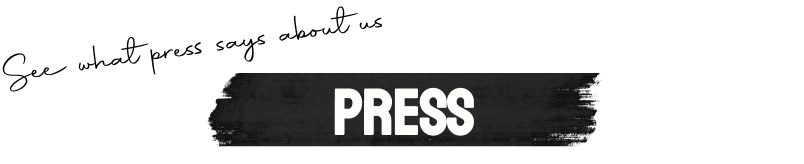
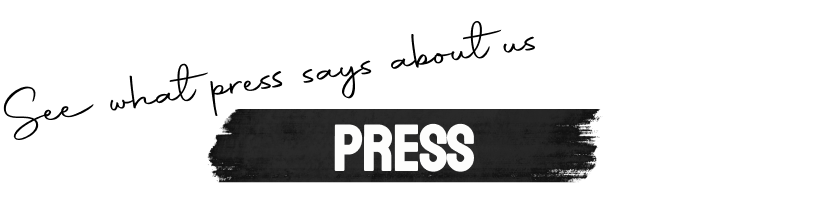
parallax effect

Changed region(s): [[0.0, 0.0305, 0.7463, 0.9146], [0.0933, 0.2744, 0.1244, 0.3049]]

diff --git a/index.html b/index.html
@@ -13,28 +13,36 @@
 <body>
     <nav class="navbar">
         <div class="brand-title">
-            <a href="index.html"><img src="img/logo_white_long.svg" alt="long logo">
+            <a class="size_up" href="index.html"><img src="img/logo_white_long.svg" alt="long logo">
         </div></a>
-        <a href="#" class="toggle-button">
+        <a class="size_up" href="#" class="toggle-button">
             <span class="bar"></span>
             <span class="bar"></span>
             <span class="bar"></span>
         </a>
         <div class="navbar-links">
             <ul>
-                <li><a href="staff.html">ABOUT</a></li>
-                <li><a href="#">PROJECTS</a></li>
-                <li><a href="#">SHOP</a></li>
-                <li><a href="#">TROLLMAP</a></li>
-                <li><a href="#"><img class="search" src="img/search.png" alt="long logo"></a></li>
-                <li><a href="#"><img class="search" src="img/cart.png" alt="long logo"></a></li>
+                <li><a class="size_up" href="staff.html">ABOUT</a></li>
+                <li><a class="size_up" href="#">PROJECTS</a></li>
+                <li><a class="size_up" href="#">SHOP</a></li>
+                <li><a class="size_up" href="#">TROLLMAP</a></li>
+                <li><a class="size_up" href="#"><img class="search" src="img/search.png" alt="long logo"></a></li>
+                <li><a class="size_up" href="#"><img class="search" src="img/cart.png" alt="long logo"></a></li>
             </ul>
         </div>
     </nav>
-    <header>
-        <div id="header_div"></div>
-    </header>
     <main>
+        <div class="center">
+            <div class="down"></div>
+        </div>
+
+        <div id="wrapper">
+            <img id="background" src="img/background.jpg" alt="Background image">
+            <img id="foreground" src="img/foreground.png" alt="Foreground image">
+            <img id="logo" src="img/logo_black_big.svg" alt="Logo">
+
+        </div>
+        </div>
         <section id="art_part">
             <article id="title">
                 <div class="title_text">
@@ -54,7 +62,7 @@
                         imagination have reached millions through in person visits, shared photos, and international
                         media
                         coverage.</p>
-                    <div class="button"><a href="#"><img src="img/button_visit.png"
+                    <div class="size_up" class="button"><a href="#"><img src="img/button_visit.png"
                                 alt="Go to the website about specific artwork"></a></div>
                 </div>
                 <div class="art_image">
@@ -67,7 +75,7 @@
                     <p>Since 2006 Thomas has made and installed more than 3500 birdhouses, in different shapes and
                         colors,
                         all over the world. All of the birdhouses are made from recycled materials and scrap wood.</p>
-                    <div class="button"><a href="#"><img src="img/button_visit.png"
+                    <div class="size_up" class="button"><a href="#"><img src="img/button_visit.png"
                                 alt="Go to the website about specific artwork"></a></div>
                 </div>
                 </div>
@@ -85,7 +93,7 @@
                         could be flipped to make different patterns allowing anyone to easily express themselves on a
                         huge
                         scale in a popular public spot.</p>
-                    <div class="button"><a href="#"><img src="img/button_visit.png"
+                    <div class="size_up" class="button"><a href="#"><img src="img/button_visit.png"
                                 alt="Go to the website about specific artwork"></a></div>
                 </div>
                 </div>
@@ -97,7 +105,7 @@
         <section id="shop">
             <article id="shop_article">
                 <div class="black_title"><img src="img/title_shop.png" alt="Shop title"></div>
-                <div class="see_more">
+                <div class="size_up" class="see_more">
                     <a href="#">
                         <p>See all products -></p>
                     </a>
@@ -124,7 +132,7 @@
                         and unique treasure hunt!</p>
                 </div>
                 <div id="map_image">
-                    <div id="map_button" class="button">
+                    <div class="size_up" id="map_button" class="button">
                         <a target="_blank" href="https://trollmap.com/"><img src="img/button_lets_go.png"
                                 alt="Go to the website about treasure hunt"></a>
                     </div>
@@ -145,7 +153,7 @@
                             Our vision is to make art that inspires people to go explore, have adventures in nature, and
                             demonstrates that trash can be turned into something beautiful.
                         </p>
-                        <a href="staff.html"><img src="img/button_about.png" alt="About button"></a>
+                        <a class="size_up" href="staff.html"><img src="img/button_about.png" alt="About button"></a>
                     </div>
                 </div>
                 <div class="about_div" id="family_image">
@@ -157,7 +165,7 @@
         <section id="gallery">
             <div class="black_title"><img src="img/title_art.png" alt="Gallery title"></div>
             <div class="see_more">
-                <a href="#">
+                <a class="size_up" href="#">
                     <p>See the Gallery -></p>
                 </a>
             </div>

diff --git a/css/landing.css b/css/landing.css
@@ -150,17 +150,43 @@ body {
 }
 
 /* ////////////////////////////HEADER//////////////////////////// */
-header {
-  width: 100%;
-  height: 100%;
-}
-header div {
-  width: 100vw;
+main {
   height: 100vh;
-  background-image: url("../img/header.jpg");
-  background-size: cover;
-  background-repeat: no-repeat;
-  background-position: 50% 40%;
+  overflow-y: auto;
+  overflow-x: hidden;
+  perspective: 10px;
+}
+
+#wrapper {
+  position: relative;
+  display: flex;
+  justify-content: center;
+  align-items: center;
+  height: 100%;
+  transform-style: preserve-3d;
+  z-index: -1;
+}
+#background {
+  position: absolute;
+  height: 100%;
+  width: 100%;
+  object-fit: cover;
+}
+#foreground {
+  position: absolute;
+  height: 80%;
+  bottom: 0;
+  width: 100%;
+  object-position: 80% 50%;
+  object-fit: cover;
+}
+
+#background {
+  transform: translateZ(-15px) scale(3);
+}
+#logo {
+  margin-bottom: 40rem;
+  transform: translateZ(-15px) scale(1.5);
 }
 
 /* ////////////////////////////TITLE//////////////////////////// */
@@ -183,6 +209,7 @@ header div {
 /* ////////////////////////////ART//////////////////////////// */
 #art_part {
   width: 100vw;
+  background-color: var(--white--);
 }
 .art_info {
   height: 50vh;
@@ -285,11 +312,9 @@ header div {
 }
 
 #map_button {
-  position: absolute;
-  left: 50%;
-  top: 40%;
-  -webkit-transform: translate(-50%, -50%);
-  transform: translate(-50%, -50%);
+  margin: auto;
+  width: 8rem;
+  padding-top: 10rem;
 }
 #map_button a img {
   width: 8rem;
@@ -367,7 +392,33 @@ a {
   font-weight: lighter;
   line-height: 2.5rem;
 }
+.size_up:hover {
+  animation: size_up 0.3s forwards ease-in-out;
+}
 
+.size_up:not(:hover) {
+  animation: size_down 0.3s forwards ease-in-out;
+}
+
+@keyframes size_up {
+  from {
+    transform: scale(1);
+  }
+
+  to {
+    transform: scale(1.1);
+  }
+}
+
+@keyframes size_down {
+  from {
+    transform: scale(1.1);
+  }
+
+  to {
+    transform: scale(1);
+  }
+}
 ul {
   list-style-type: none;
   margin-bottom: 5rem;
@@ -397,6 +448,63 @@ footer {
   gap: 5%;
   width: 80%;
   margin-bottom: 1rem;
+}
+.center {
+  position: absolute;
+  top: 75%;
+  left: 50%;
+  transform: translate(-50%, -50%);
+}
+
+.down {
+  position: relative;
+  width: 50px;
+  height: 80px;
+  border-radius: 25px;
+  background: transparent;
+  border: 2px solid black;
+  overflow: hidden;
+}
+
+.down:before {
+  content: "";
+  position: absolute;
+  width: 6px;
+  height: 6px;
+  border-radius: 50%;
+  background: black;
+  left: 50%;
+  top: 10px;
+  transform: translate(-50%, 0);
+  animation: animate 1s linear infinite;
+}
+
+.down:after {
+  content: "";
+  position: absolute;
+  width: 6px;
+  height: 15px;
+  border-radius: 50%;
+  background: black;
+  left: 50%;
+  top: 5px;
+  transform: translate(-50%, 0);
+  border-radius: 3px;
+}
+
+@keyframes animate {
+  0% {
+    transform: translate(-50%, 0px);
+    opacity: 0;
+  }
+  50% {
+    transform: translate(-50%, 40px);
+    opacity: 1;
+  }
+  100% {
+    transform: translate(-50%, 80px);
+    opacity: 0;
+  }
 }
 
 @media (max-width: 700px) {
@@ -479,6 +587,14 @@ footer {
   .title_text {
     height: 60vh;
   }
+  #foreground {
+    height: 100%;
+    object-position: 50% 50%;
+  }
+  #logo {
+    margin-bottom: 25rem;
+    transform: translateZ(-15px) scale(3);
+  }
 
   .see_more p {
     margin: 1rem;
@@ -510,10 +626,7 @@ footer {
     margin-bottom: 2rem;
   }
   #map_button {
-    left: 50%;
-    top: 15%;
-    -webkit-transform: translate(-50%, -50%);
-    transform: translate(-50%, -50%);
+    margin: auto;
   }
   .about_text a img {
     width: 8rem;
@@ -574,7 +687,7 @@ footer {
   }
   #art_part {
     height: 410vh;
-    background-image: url("../img/bg_home.png");
+    background-image: url("../img/bg_home.jpg");
     background-size: 100% 90%;
     background-repeat: no-repeat;
   }

diff --git a/css/staff.css b/css/staff.css
@@ -148,7 +148,7 @@ html {
   border-radius: 10px;
 }
 
-.search{
+.search {
   width: 2rem;
   margin-top: 0.65rem;
 }
@@ -632,7 +632,7 @@ footer {
 
 .center {
   position: absolute;
-  top: 50%;
+  top: 75%;
   left: 50%;
   transform: translate(-50%, -50%);
 }
